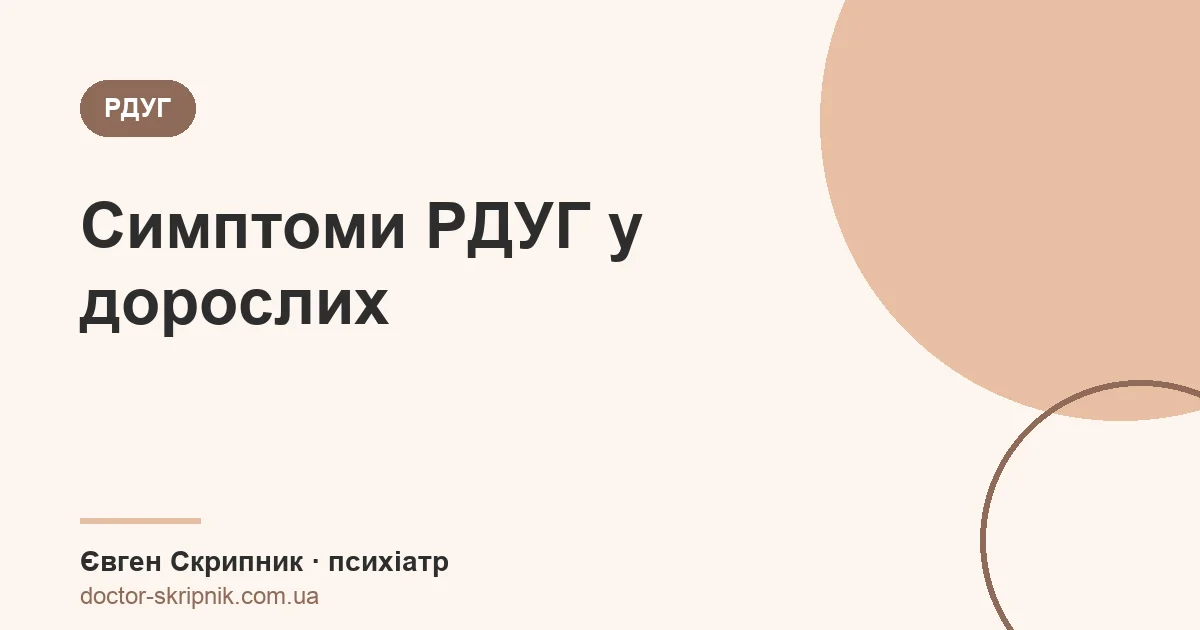
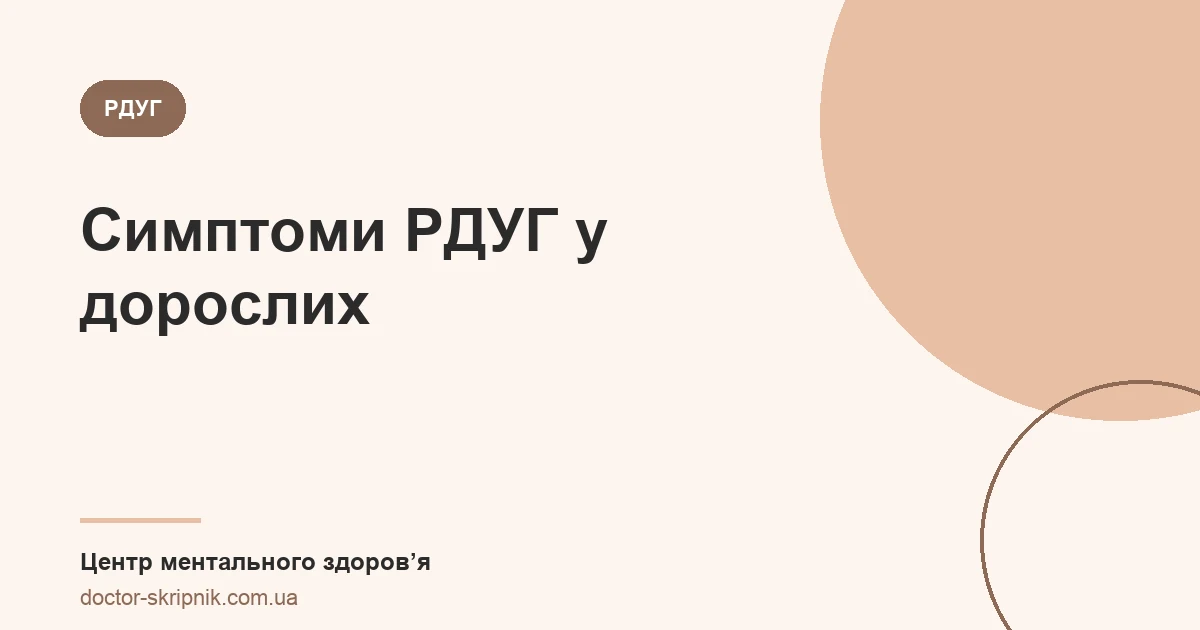
Add a cover generator for articles and give the ADHD article a clinic-branded cover
make-article-cover.py draws a 1200×630 banner in the style of the existing
covers, with the clinic in the footer. The draft script accepts a coverImage
from /assets/articles/.

diff --git a/apps/backend/scripts/create-article-draft.js b/apps/backend/scripts/create-article-draft.js
@@ -5,7 +5,7 @@
 //   node scripts/create-article-draft.js <article.json> [--dry-run]
 //   node scripts/create-article-draft.js --notify <article id>   (re-send a draft to Telegram)
 //
-// article.json: { title, excerpt, content (HTML), categories: [], tags: [], relatedTests: [test slugs] }
+// article.json: { title, excerpt, content (HTML), categories: [], tags: [], relatedTests: [test slugs], coverImage? }
 require('dotenv').config({ path: require('path').join(__dirname, '..', '.env') });
 const fs = require('fs');
 const mongoose = require('mongoose');
@@ -67,6 +67,11 @@ async function main() {
     if (/Скрипник/i.test(data.content)) fail('content names the doctor — point booking to the clinic instead');
     if (!data.content.includes('суто інформаційний характер')) fail('content lacks the "суто інформаційний характер" disclaimer');
 
+    // Covers are our own banners served by the site (apps/frontend/scripts/make-article-cover.py)
+    if (data.coverImage && !/^https:\/\/doctor-skripnik\.com\.ua\/assets\/articles\/[a-z0-9-]+\.webp$/.test(data.coverImage)) {
+        fail('coverImage must be https://doctor-skripnik.com.ua/assets/articles/<slug>.webp');
+    }
+
     const categories = data.categories ?? [];
     const unknown = categories.filter(c => !CATEGORIES.includes(c));
     if (unknown.length) fail(`unknown categories: ${unknown.join(', ')} (allowed: ${CATEGORIES.join(', ')})`);
@@ -88,6 +93,7 @@ async function main() {
             content: data.content,
             categories,
             tags: data.tags ?? [],
+            ...(data.coverImage ? { coverImage: data.coverImage } : {}),
             relatedTests: tests.map(t => t._id),
             status: 'draft',
             author: AUTHOR_ID,

diff --git a/apps/frontend/scripts/make-article-cover.py b/apps/frontend/scripts/make-article-cover.py
@@ -1,0 +1,75 @@
+"""Branded 1200×630 article cover in the style of src/assets/articles/*.webp.
+
+    python3 apps/frontend/scripts/make-article-cover.py --title "Симптоми РДУГ у дорослих" --kicker "РДУГ" --out apps/frontend/src/assets/articles/<slug>.webp
+
+The cover is served from https://doctor-skripnik.com.ua/assets/articles/<slug>.webp once the
+frontend is deployed; set that URL as the article's coverImage. Needs Pillow and macOS's Arial.
+"""
+import argparse
+from PIL import Image, ImageDraw, ImageFont
+
+W, H = 1200, 630
+BG, ACCENT, PEACH, TITLE, MUTED = '#fdf5ef', '#8d6a56', '#e8bfa4', '#2b2b2b', '#8d6a56'
+FONT_BOLD = '/System/Library/Fonts/Supplemental/Arial Bold.ttf'
+FONT = '/System/Library/Fonts/Supplemental/Arial.ttf'
+TEXT_X, TITLE_MAX_W = 80, 660
+FOOTER = 'Центр ментального здоров’я'
+SITE = 'doctor-skripnik.com.ua'
+
+
+def wrap(draw, text, font, max_w):
+    lines, line = [], ''
+    for word in text.split():
+        candidate = f'{line} {word}'.strip()
+        if draw.textlength(candidate, font=font) <= max_w or not line:
+            line = candidate
+        else:
+            lines.append(line)
+            line = word
+    return lines + [line] if line else lines
+
+
+def title_layout(draw, text):
+    """Largest size (60 → 40px) at which the title fits in three lines."""
+    for size in range(60, 38, -2):
+        font = ImageFont.truetype(FONT_BOLD, size)
+        lines = wrap(draw, text, font, TITLE_MAX_W)
+        if len(lines) <= 3:
+            return font, lines
+    return font, lines[:3]
+
+
+def main():
+    p = argparse.ArgumentParser()
+    p.add_argument('--title', required=True, help='short banner title, ~2–6 words')
+    p.add_argument('--kicker', required=True, help='topic chip, e.g. "РДУГ", "Депресія"')
+    p.add_argument('--out', required=True)
+    args = p.parse_args()
+
+    im = Image.new('RGB', (W, H), BG)
+    d = ImageDraw.Draw(im)
+
+    # Decorative circle and ring on the right, as on the existing covers
+    d.ellipse((820, -180, 1420, 420), fill=PEACH)
+    d.ellipse((980, 380, 1300, 700), outline=ACCENT, width=4)
+
+    chip_font = ImageFont.truetype(FONT_BOLD, 22)
+    chip_w = d.textlength(args.kicker, font=chip_font) + 48
+    d.rounded_rectangle((TEXT_X, 80, TEXT_X + chip_w, 136), radius=28, fill=ACCENT)
+    d.text((TEXT_X + 24, 108), args.kicker, font=chip_font, fill='white', anchor='lm')
+
+    font, lines = title_layout(d, args.title)
+    line_h = int(font.size * 1.22)
+    for i, line in enumerate(lines):
+        d.text((TEXT_X, 196 + i * line_h), line, font=font, fill=TITLE)
+
+    d.rectangle((TEXT_X, 518, TEXT_X + 120, 522), fill=PEACH)
+    d.text((TEXT_X, 562), FOOTER, font=ImageFont.truetype(FONT_BOLD, 24), fill=TITLE, anchor='lm')
+    d.text((TEXT_X, 597), SITE, font=ImageFont.truetype(FONT, 22), fill=MUTED, anchor='lm')
+
+    im.save(args.out, 'WEBP', quality=88, method=6)
+    print(f'Cover saved: {args.out}')
+
+
+if __name__ == '__main__':
+    main()
